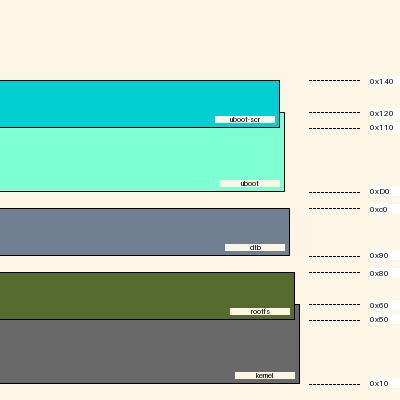
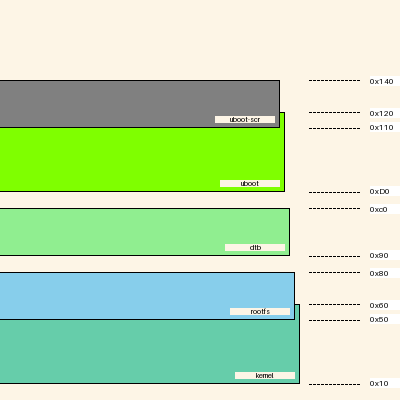
renamed Region to MemoryRegion

diff --git a/mm/types.py b/mm/types.py
@@ -6,7 +6,7 @@ import logging
 
 
 @typeguard.typechecked
-class Region:
+class MemoryRegion:
 
     _remaining_colours: Dict = PIL.ImageColor.colormap.copy()
     """Copy of the PIL colour string map, we remove colours until all are gone.
@@ -30,8 +30,8 @@ class Region:
 
         # both 'lightslategray' and 'lightslategrey' are the same colour
         # and we don't want duplicate colours in our diagram
-        if "lightslategray" in Region._remaining_colours:
-            del Region._remaining_colours["lightslategray"]
+        if "lightslategray" in MemoryRegion._remaining_colours:
+            del MemoryRegion._remaining_colours["lightslategray"]
 
     @property
     def origin(self):
@@ -57,20 +57,20 @@ class Region:
             logging.debug(f"{self.name}:")
             # make sure we don't pick a colour that is too bright.
             # A0A0A0 was arbitrarily decided to be "too bright" :)
-            chosen_colour_name, chosen_colour_code = random.choice(list(Region._remaining_colours.items()))
+            chosen_colour_name, chosen_colour_code = random.choice(list(MemoryRegion._remaining_colours.items()))
             while int(chosen_colour_code[1:], 16) > int("A0A0A0", 16):
                 logging.debug(f"\tRejected {chosen_colour_name}({chosen_colour_code})")
-                del Region._remaining_colours[chosen_colour_name]
-                chosen_colour_name, chosen_colour_code = random.choice(list(Region._remaining_colours.items()))
+                del MemoryRegion._remaining_colours[chosen_colour_name]
+                chosen_colour_name, chosen_colour_code = random.choice(list(MemoryRegion._remaining_colours.items()))
 
-            del Region._remaining_colours[chosen_colour_name]
+            del MemoryRegion._remaining_colours[chosen_colour_name]
             logging.debug(f"\tSelected {chosen_colour_name}({chosen_colour_code})")
         except (IndexError, KeyError):
             raise SystemExit("Ran out of colours!")
-        logging.debug(f"\t### {len(Region._remaining_colours)} colours left ###")
+        logging.debug(f"\t### {len(MemoryRegion._remaining_colours)} colours left ###")
         return chosen_colour_name
 
-    def calc_nearest_region(self, region_list: List['Region']):
+    def calc_nearest_region(self, region_list: List['MemoryRegion']):
         import mm.diagram
         """Calculate the remaining number of bytes until next region block"""
         region_distances = {}

diff --git a/mm/diagram.py b/mm/diagram.py
@@ -55,7 +55,7 @@ class MemoryMap:
         # output markdown report (refs image)
         self._create_markdown(self._region_list)
 
-    def _create_diagram(self, region_list: List[mm.types.Region]):
+    def _create_diagram(self, region_list: List[mm.types.MemoryRegion]):
 
         # init the main image
         img_main = PIL.Image.new("RGB", (MemoryMap.width, MemoryMap.height), color=MemoryMap.bgcolour)
@@ -69,7 +69,7 @@ class MemoryMap:
                 logging.warning("Zero size region skipped")
                 continue
 
-            # Region Blocks and text
+            # MemoryRegion Blocks and text
             region_img = PIL.Image.new("RGBA", (MemoryMap.width - self._legend_width, region.size), color=(255, 255, 0, 5))
             region_canvas = PIL.ImageDraw.Draw(region_img)
 
@@ -131,7 +131,7 @@ class MemoryMap:
         img_file = pathlib.Path(self.args.out).stem + ".png"
         img_main.save(pathlib.Path(self.args.out).parent / img_file)
 
-    def _create_markdown(self, region_list: List[mm.types.Region]):
+    def _create_markdown(self, region_list: List[mm.types.MemoryRegion]):
         with open(self.args.out, "w") as f:
             f.write(f"""![memory map diagram]({pathlib.Path(self.args.out).stem}.png)\n""")
             f.write("|name|origin|size|remaining|collisions\n")
@@ -139,7 +139,7 @@ class MemoryMap:
             for region in region_list:
                 f.write(f"{region}\n")
 
-    def _process_input(self) -> List[mm.types.Region]:
+    def _process_input(self) -> List[mm.types.MemoryRegion]:
 
         self.parser = argparse.ArgumentParser()
         self.parser.add_argument("regions", help='command line input for regions should be tuples of name, origin and size.',
@@ -168,9 +168,9 @@ class MemoryMap:
             origin = r[1]
             size = r[2]
             if any(x.name == name for x in region_list):
-                warnings.warn(f"Duplicate region names ({name}) are not permitted. Region will be skipped.", RuntimeWarning)
+                warnings.warn(f"Duplicate region names ({name}) are not permitted. MemoryRegion will be skipped.", RuntimeWarning)
             else:
-                region_list.append(mm.types.Region(name, origin, size))
+                region_list.append(mm.types.MemoryRegion(name, origin, size))
 
         for r in region_list:
             r.calc_nearest_region(region_list)

diff --git a/tests/test_colours.py b/tests/test_colours.py
@@ -21,7 +21,7 @@ def test_no_more_colours_but_white():
                               "-o",
                               f"/tmp/pytest/{__name__}.md"]):
         # deliberately restrict the dict len=1 so we can confirm the error is raised.
-        with unittest.mock.patch('mm.types.Region._remaining_colours',
+        with unittest.mock.patch('mm.types.MemoryRegion._remaining_colours',
                                  {"white": "#000000"}):
             with pytest.raises(SystemExit):
                 mm.diagram.MemoryMap()
@@ -44,7 +44,7 @@ def test_no_more_colours_but_black():
                               "-o",
                               f"/tmp/pytest/{__name__}.md"]):
         # deliberately restrict the dict len=1 so we can confirm the error is raised.
-        with unittest.mock.patch('mm.types.Region._remaining_colours',
+        with unittest.mock.patch('mm.types.MemoryRegion._remaining_colours',
                                  {"black": "#ffffff"}):
             with pytest.raises(SystemExit):
                 mm.diagram.MemoryMap()
@@ -57,7 +57,7 @@ def test_only_one_lightslategr_y():
                               'kernel', '0x10', '0x60',
                               'rootfs', '0x50', '0x10'
                               "-o", f"/tmp/pytest/{__name__}.md"],
-                             'mm.types.Region._remaining_colours',
+                             'mm.types.MemoryRegion._remaining_colours',
                              {"lightslategray": "#778899", "lightslategrey": "#778899"}):
         with pytest.raises(SystemExit):
             mm.diagram.MemoryMap()

diff --git a/doc/example/report.md b/doc/example/report.md
@@ -1,8 +1,8 @@
 ![memory map diagram](report.png)
 |name|origin|size|remaining|collisions
 |:-|:-|:-|:-|:-|
-|<span style='color:dimgrey'>kernel</span>|0x10|0x50|-0x10|{'rootfs': '0x50'}|
-|<span style='color:aquamarine'>uboot</span>|0xD0|0x50|-0x10|{'uboot-scr': '0x110'}|
-|<span style='color:darkolivegreen'>rootfs</span>|0x50|0x30|0x10|{'kernel': '0x50'}|
-|<span style='color:slategray'>dtb</span>|0x90|0x30|0x10|{}|
-|<span style='color:darkturquoise'>uboot-scr</span>|0x110|0x30|0x50|{'uboot': '0x110'}|
+|<span style='color:mediumaquamarine'>kernel</span>|0x10|0x50|-0x10|{'rootfs': '0x50'}|
+|<span style='color:chartreuse'>uboot</span>|0xD0|0x50|-0x10|{'uboot-scr': '0x110'}|
+|<span style='color:skyblue'>rootfs</span>|0x50|0x30|0x10|{'kernel': '0x50'}|
+|<span style='color:lightgreen'>dtb</span>|0x90|0x30|0x10|{}|
+|<span style='color:grey'>uboot-scr</span>|0x110|0x30|0x50|{'uboot': '0x110'}|
